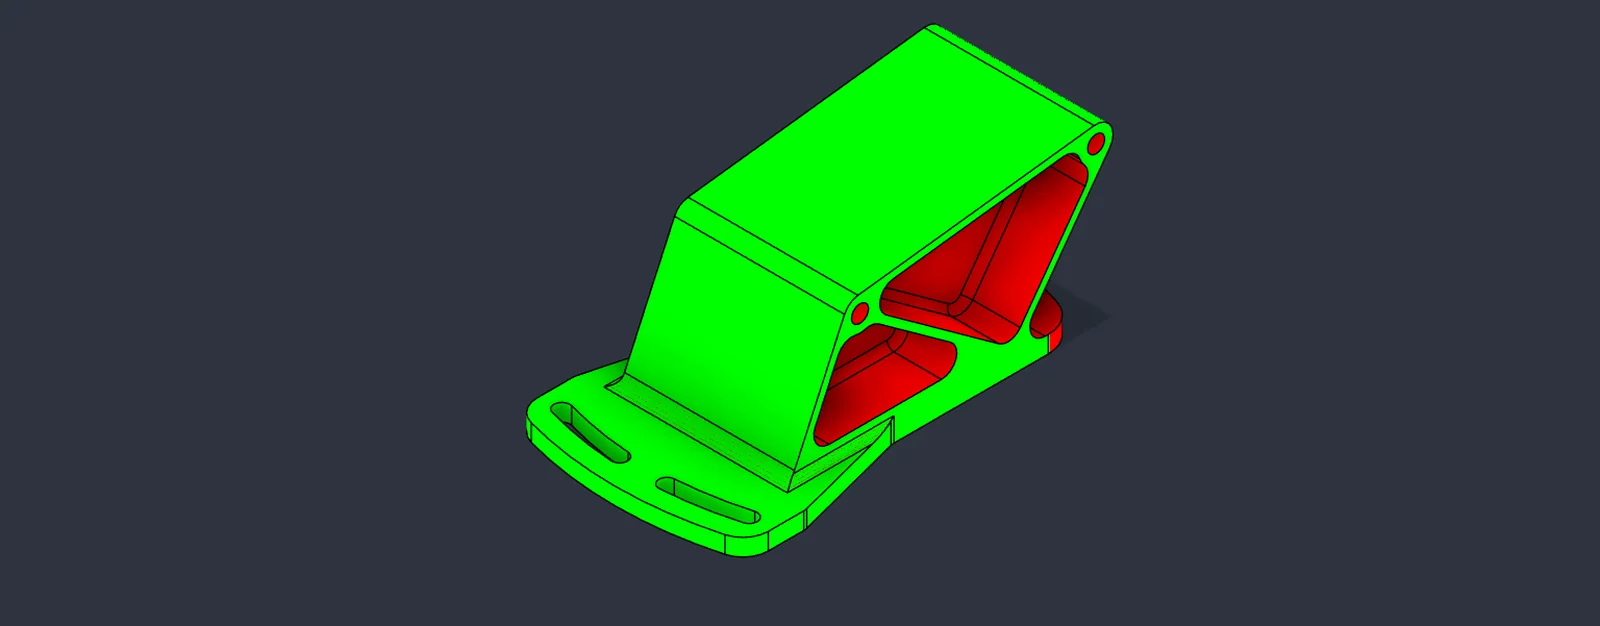
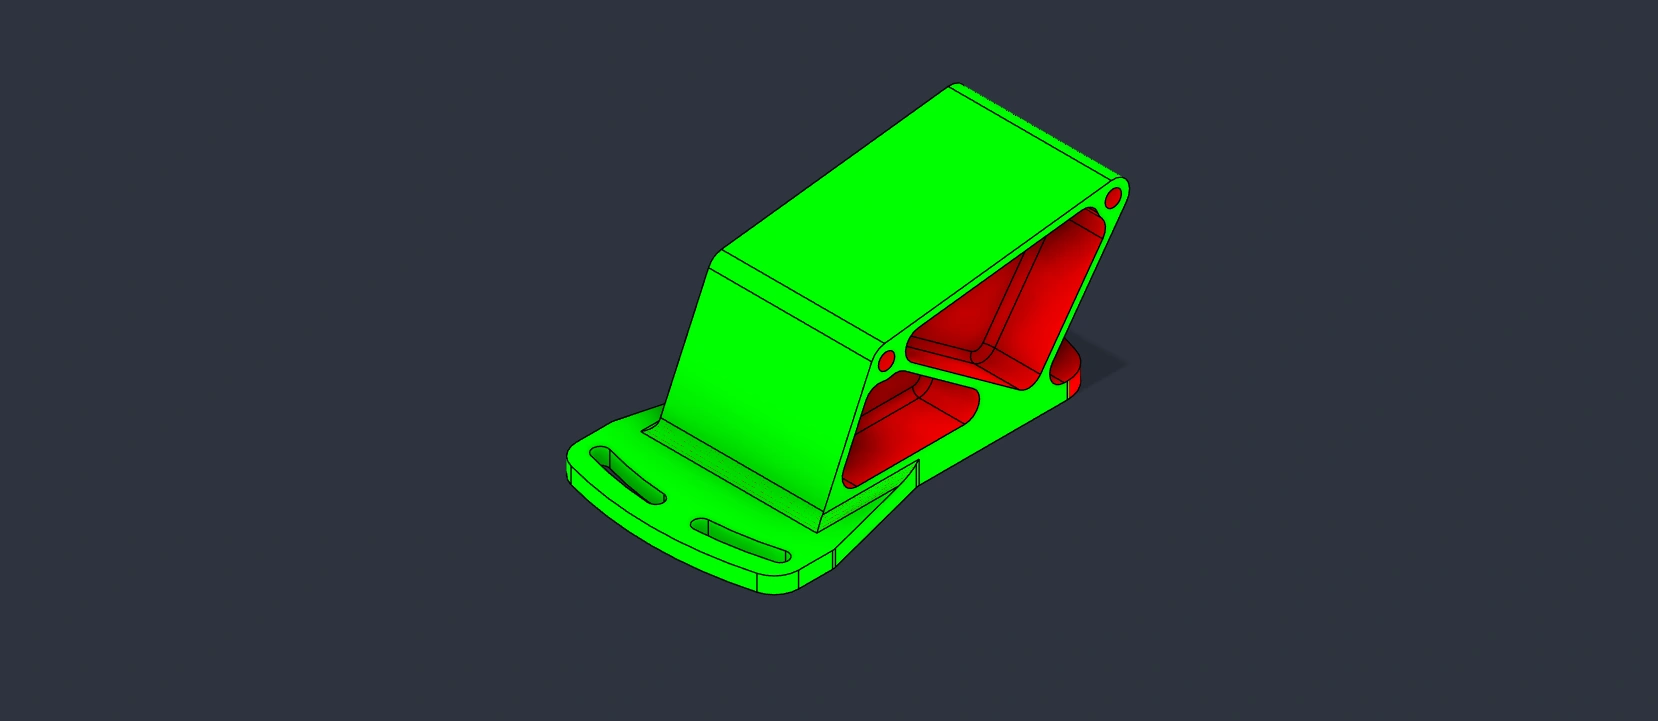
Process images: native resolution, no zoom or crop, edges dissolve into a full-bleed band

Changed region(s): [[0.3125, 0.0304, 0.7188, 0.9105]]

diff --git a/frontend/src/App.css b/frontend/src/App.css
@@ -433,32 +433,58 @@ html {
   position: relative;
   width: 100%;
   aspect-ratio: 3 / 2;
-  overflow: hidden;
-  border-radius: 24px;
-  background: #2e3440;
 }
 @media (min-width: 768px) {
   .process-stage {
-    aspect-ratio: 1600 / 626;
+    aspect-ratio: 2.4 / 1;
     /* Leave room for the step row under the stage on short screens. */
     max-height: calc(100vh - 21rem);
     max-height: calc(100svh - 21rem);
     min-height: 12rem;
   }
 }
+/* A full-bleed band in the images' own background colour, fading out above and below, so the
+   pictures melt into the page instead of sitting in a box. */
+.process-stage::before {
+  content: "";
+  position: absolute;
+  top: 0;
+  bottom: 0;
+  left: 50%;
+  width: 100vw;
+  margin-left: -50vw;
+  background: linear-gradient(to bottom, transparent, #2e3440 20%, #2e3440 80%, transparent);
+  pointer-events: none;
+}
+/* Images are shown at their own pixel size (never enlarged), only ever scaled down, and
+   their edges dissolve into the page instead of ending in a hard frame. */
 .process-stage__img {
   position: absolute;
   inset: 0;
+  margin: auto;
   width: 100%;
   height: 100%;
   object-fit: cover;
   opacity: 0;
-  transform: scale(1.03);
-  transition: opacity 0.7s ease, transform 1.2s ease;
+  transition: opacity 0.8s ease;
+  -webkit-mask-image: linear-gradient(to right, transparent, #000 12%, #000 88%, transparent),
+    linear-gradient(to bottom, transparent, #000 16%, #000 84%, transparent);
+  -webkit-mask-composite: source-in;
+  mask-image: linear-gradient(to right, transparent, #000 12%, #000 88%, transparent),
+    linear-gradient(to bottom, transparent, #000 16%, #000 84%, transparent);
+  mask-composite: intersect;
+}
+@media (min-width: 768px) {
+  .process-stage__img {
+    width: auto;
+    height: auto;
+    max-width: 100%;
+    max-height: 100%;
+    object-fit: initial;
+  }
 }
 .process-stage__img.is-active {
   opacity: 1;
-  transform: scale(1);
 }
 .process-steps {
   list-style: none;
